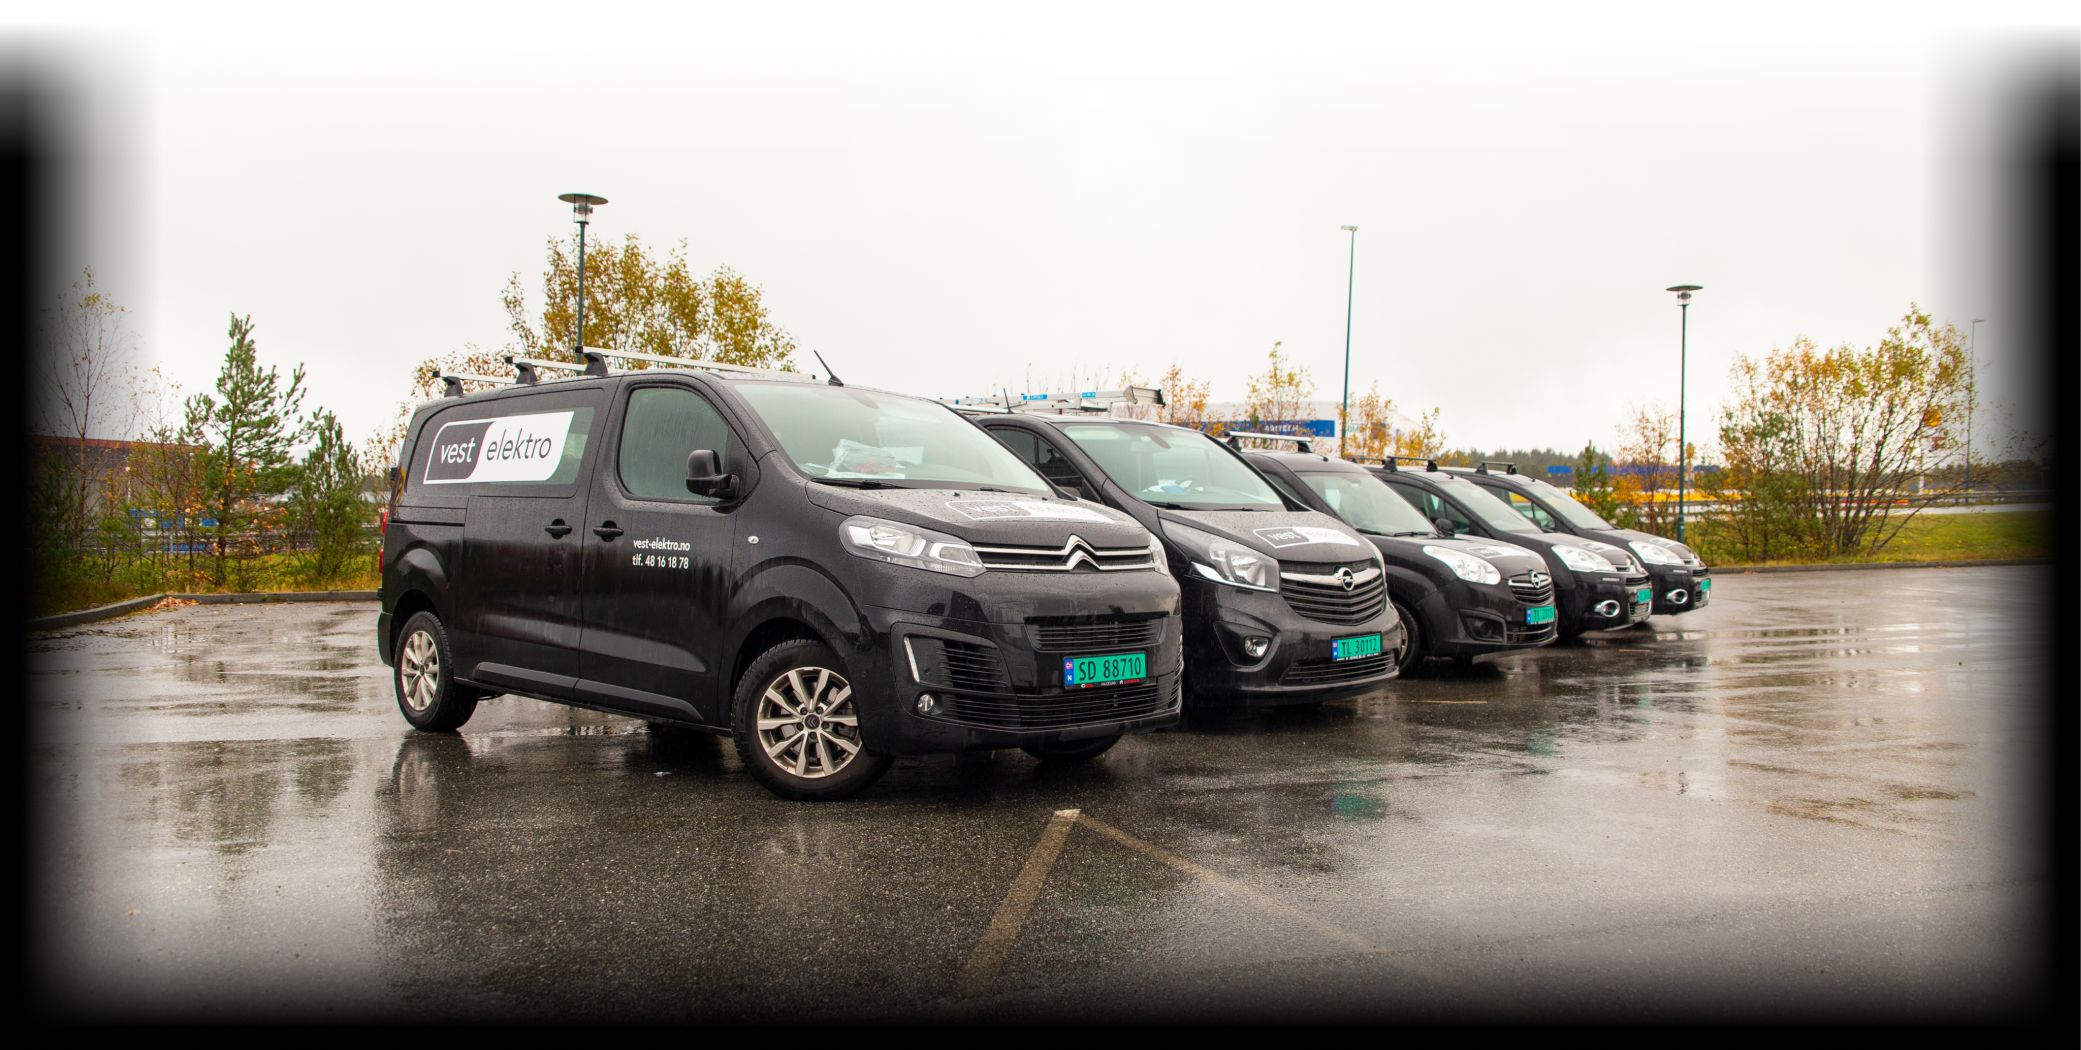
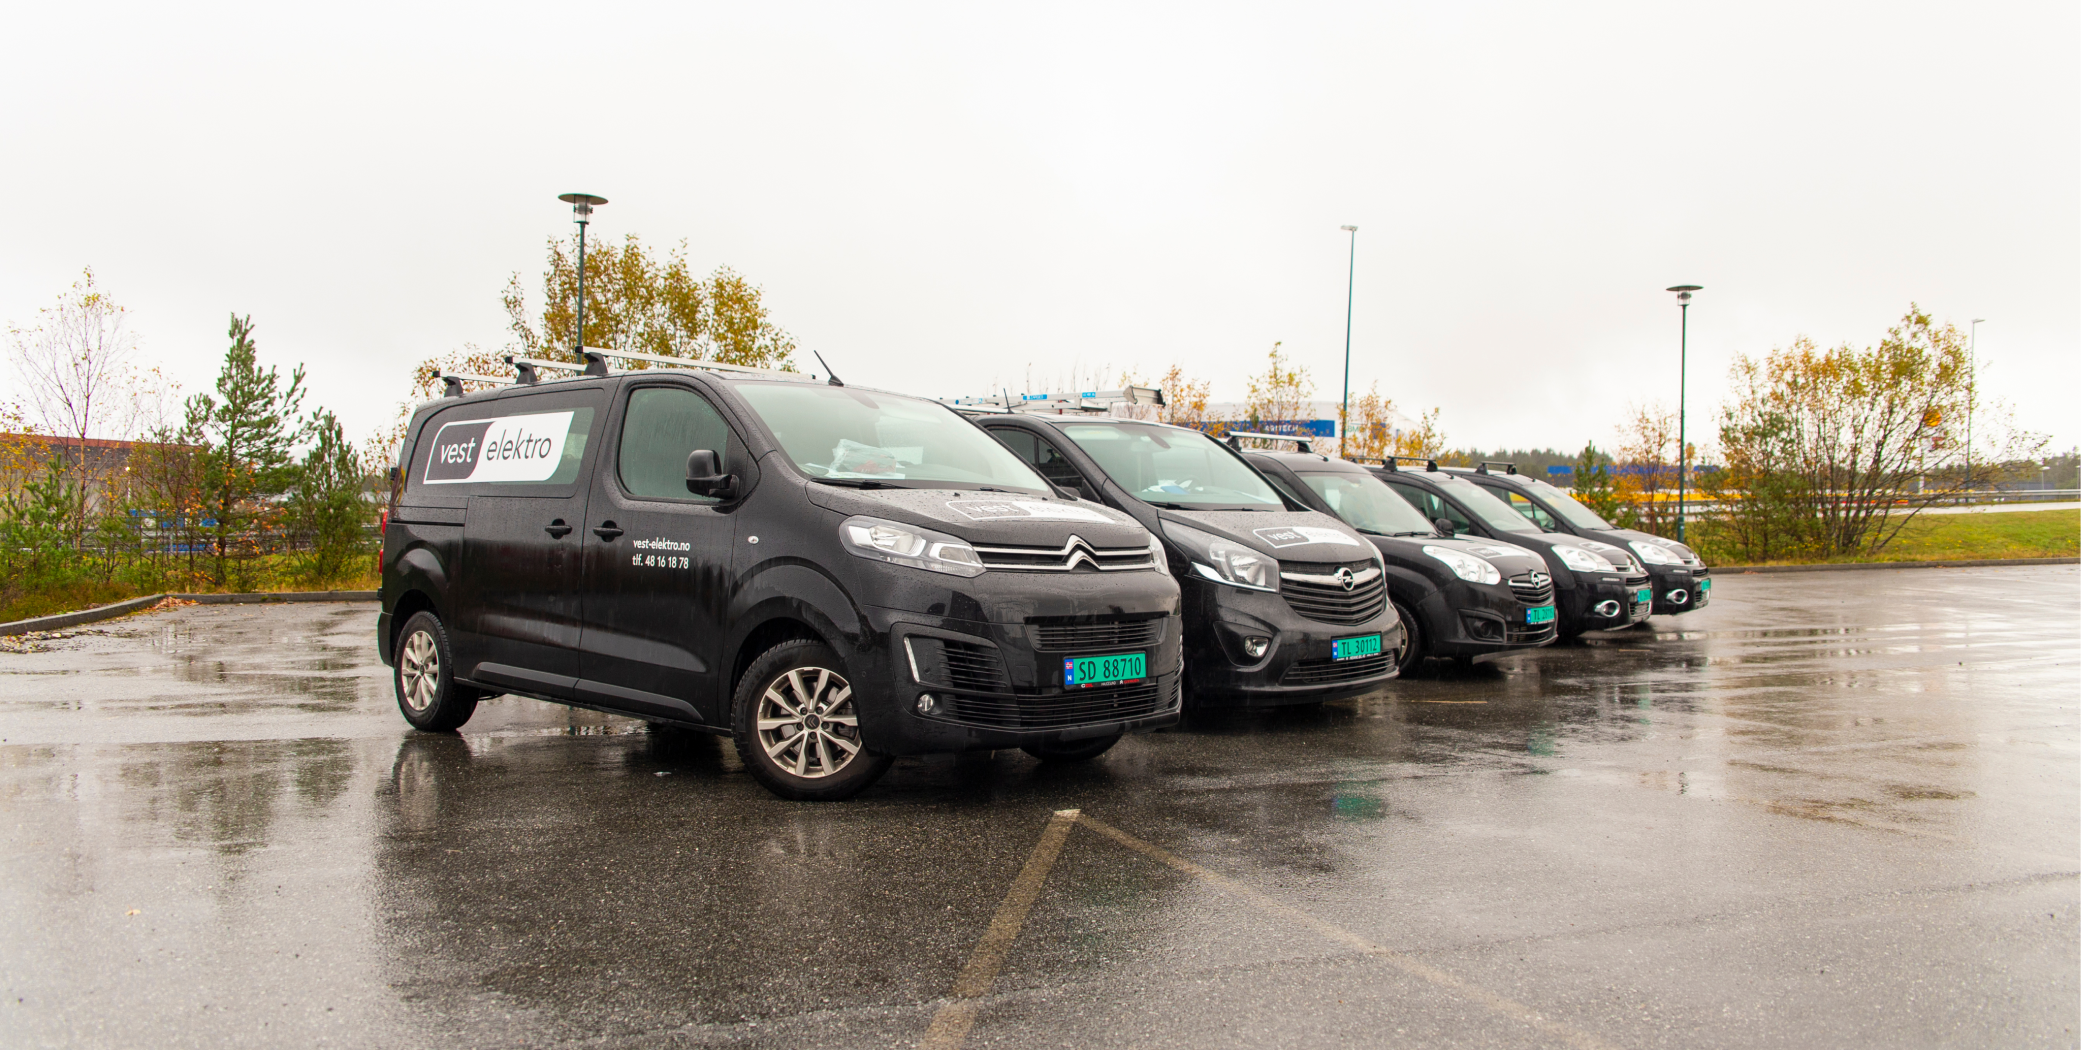
added shadows around images, improved ux for pvmap

Changed region(s): [[0.0, 0.0305, 1.0, 1.0]]

diff --git a/src/app/page.js b/src/app/page.js
@@ -24,6 +24,12 @@ export default function Page() {
     <main>
       <section className="hero pt-32 px-4 md:pt-80 relative" id="main">
         <div className="absolute inset-0 bg-black opacity-20 z-10"></div>
+        <div
+          className="absolute bottom-0 left-0 z-20 w-full h-8"
+          style={{
+            background: "linear-gradient(0deg, #fff 0%, rgba(0, 0, 0, 0) 100%)",
+          }}
+        ></div>
         {/* Bakgrunnsvideo */}
         {config.hero?.video ? (
           <video
@@ -141,18 +147,25 @@ export default function Page() {
         />
       </section>
 
-      <section id="advantage" className="flex flex-col items-center ">
+      <section id="advantage" className="flex flex-col items-center">
         <h3 className="text-center md:text-3xl">
           {config.advantage?.header || "Fordelen med en lokal installatør"}
         </h3>
-        <div className="divider mb-8 mt-2"></div>
-        <div className="relative bg-black w-full">
-          <img
-            src={config.advantage?.heroImage || "heroImage.png"}
-            alt="Hero"
-            className="w-full h-[50vh] md:max-w-screen-2xl md:max-h-[940px] md:h-full object-cover mx-auto object-cover"
-          />
-          <div className="blackFade2"></div>
+        <div className="divider mb-20 mt-2"></div>
+        <div className="bg-black w-full flex justify-center relative">
+          <div className="blackFade5"></div>
+          <div className="relative max-w-screen-2xl">
+            <img
+              src={config.advantage?.heroImage || "heroImage.png"}
+              alt="Hero"
+              style={{ position: "relative" }}
+              className="w-full h-[50vh] md:max-w-screen-2xl md:max-h-[940px] md:h-full object-cover mx-auto object-cover"
+            />
+            <div className="blackFade"></div>
+            <div className="blackFade2"></div>
+            <div className="blackFade3"></div>
+            <div className="blackFade4"></div>
+          </div>
         </div>
 
         <div className="bg-black w-full text-white flex flex-col gap-8 px-4 ">
@@ -205,7 +218,7 @@ export default function Page() {
         <div className="blackFade"></div>
         <iframe
           src={`https://pvmap.vercel.app/?site=${config.title}`}
-          className="h-820 md:h-1280"
+          className="h-820 md:h-1380"
           width="100%"
           style={{ padding: "10px 0" }}
         />

diff --git a/src/app/globals.css b/src/app/globals.css
@@ -166,9 +166,10 @@ input[type="range"]:disabled {
 .blackFade {
   background: linear-gradient(180deg, #000 0%, rgba(0, 0, 0, 0) 100%);
   position: absolute;
-  height: 64px;
+  height: 94px;
   width: 100%;
   top: 0;
+  pointer-events: none;
 }
 
 .blackFade2 {
@@ -177,6 +178,7 @@ input[type="range"]:disabled {
   height: 64px;
   width: 100%;
   bottom: 0;
+  pointer-events: none;
 }
 
 .blackFade3 {
@@ -195,4 +197,13 @@ input[type="range"]:disabled {
   width: 64px;
   right: 0;
   top: 0;
+}
+
+.blackFade5 {
+  background: linear-gradient(0deg, #000 0%, rgba(0, 0, 0, 0) 100%);
+  position: absolute;
+  height: 64px;
+  width: 100%;
+  right: 0;
+  top: -64px;
 }

diff --git a/src/components/Footer.js b/src/components/Footer.js
@@ -20,7 +20,7 @@ export function Footer({
       }}
       className="p-4 xl:px-48"
     >
-      <div className="flex flex-col gap-8 mt-8 md:flex-row md:justify-between md:w-4/5 max-w-screen-2xl justify-self-center">
+      <div className="flex w-full flex-col gap-8 mt-8 md:flex-row md:justify-between md:w-4/5 max-w-screen-2xl justify-self-center">
         <div>
           <img src={logo} alt={title || "Logo"} style={{ height: "40px" }} />
           <Link href="/personvern">Personvernerklæring</Link>

diff --git a/src/app/blog/[slug]/page.js b/src/app/blog/[slug]/page.js
@@ -37,7 +37,7 @@ export default async function BlogPost({ params }) {
         {blog.image ? (
           <div className="relative overflow-hidden">
             <img
-              className="w-full aspect-video"
+              className="w-full aspect-video object-cover"
               src={blog.image}
               alt={content.title || "Blogg bilde"}
             />
